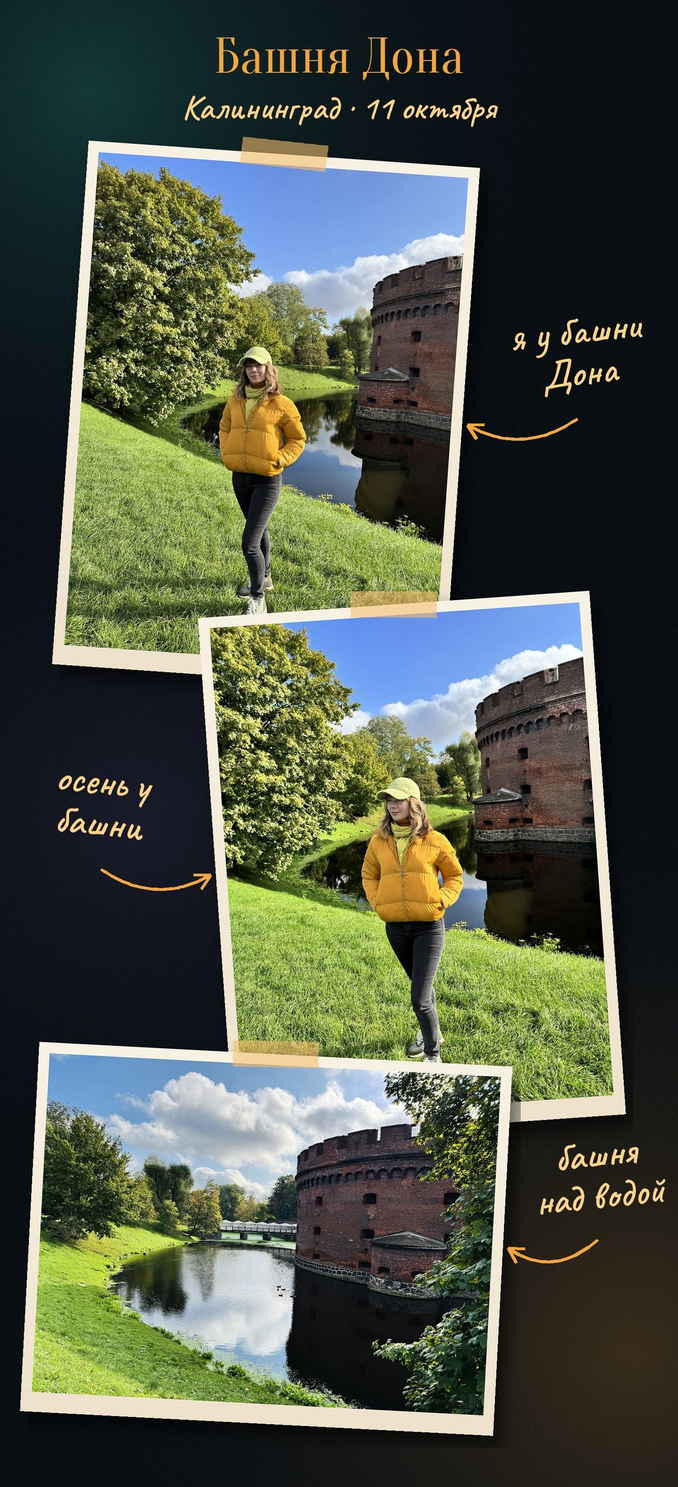
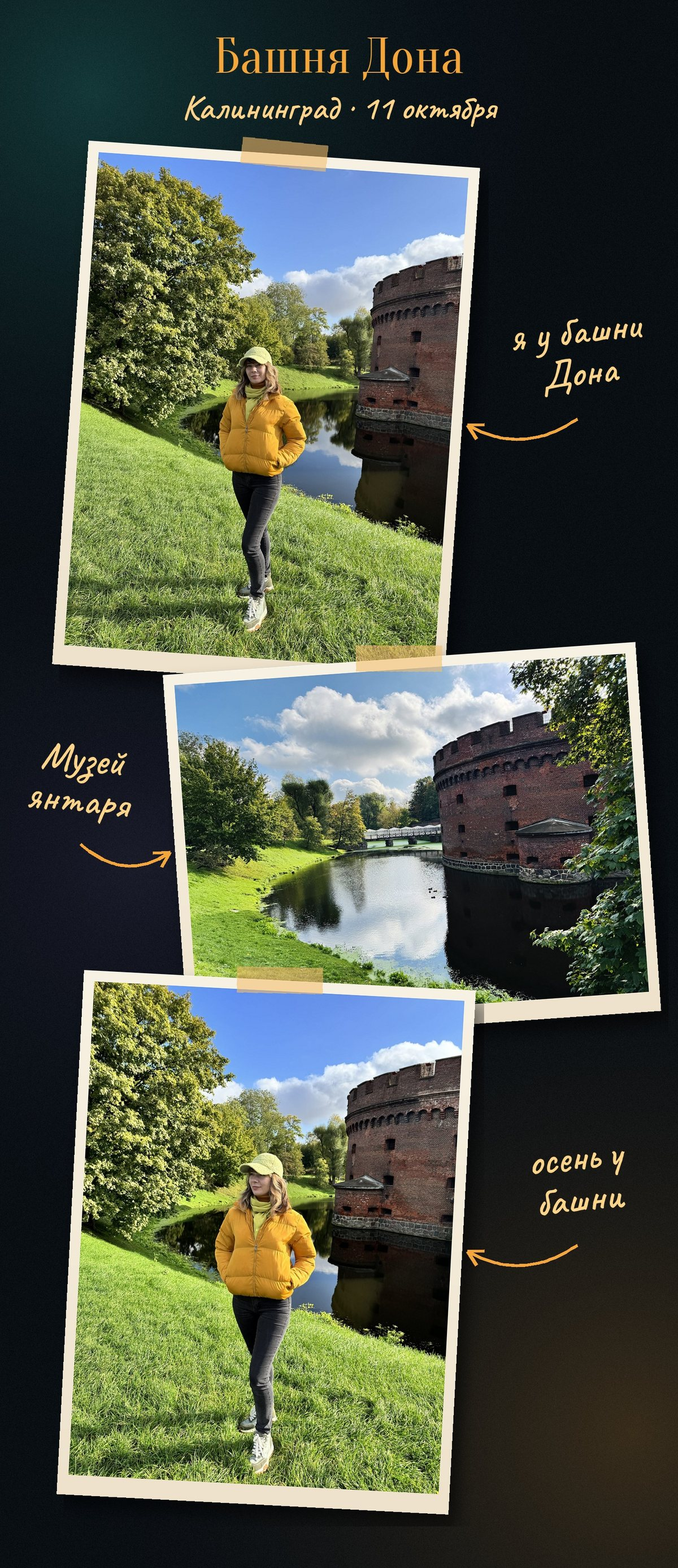
Альбом «Калининград»: страница «Башня Дона» — Музей янтаря в центре
По просьбе: сверху «я у башни Дона», в центре башня с подписью «Музей янтаря», снизу «осень у башни».
collage.py --column: перед широкой карточкой меньше нахлёст, чтобы она не закрывала низ фото выше.

Claude-Session: https://claude.ai/code/session_01BUmNQ2Kk9fTi5P6tnA3gYJ

diff --git a/kaliningrad/album/index.html b/kaliningrad/album/index.html
@@ -643,7 +643,7 @@ body.picking .wrap{padding-bottom:calc(var(--nav-h) + 230px + env(safe-area-inse
  {"id": "d1-09", "day": 1, "type": "video", "src": "photos/d1-09.mp4?v=2", "poster": "photos/d1-09.jpg", "thumb": "photos/t/d1-09.jpg", "w": 720, "h": 1280, "dur": 5.9, "place": "oz", "title": "Мамуля распахнула руки озеру", "date": "2026-10-11", "time": "10:25", "muted": true},
  {"id": "d1-70", "day": 1, "src": "photos/d1-70.jpg", "thumb": "photos/t/d1-70.jpg", "w": 1200, "h": 2906, "place": "oz", "title": "Мамуля у Верхнего озера", "date": "2026-10-11", "collage": true},
  {"id": "d1-71", "day": 1, "src": "photos/d1-71.jpg", "thumb": "photos/t/d1-71.jpg", "w": 1200, "h": 2679, "place": "oz", "title": "Верхнее озеро", "date": "2026-10-11", "collage": true},
- {"id": "d1-72", "day": 1, "src": "photos/d1-72.jpg", "thumb": "photos/t/d1-72.jpg", "w": 1200, "h": 2632, "place": "dona", "title": "Башня Дона", "date": "2026-10-11", "collage": true},
+ {"id": "d1-72", "day": 1, "src": "photos/d1-72.jpg?v=2", "thumb": "photos/t/d1-72.jpg?v=2", "w": 1200, "h": 2775, "place": "dona", "title": "Башня Дона", "date": "2026-10-11", "collage": true},
  {"id": "d1-73", "day": 1, "src": "photos/d1-73.jpg?v=2", "thumb": "photos/t/d1-73.jpg?v=2", "w": 1200, "h": 2110, "town": "kgd", "title": "Мамуля и осень", "date": "2026-10-11", "collage": true},
  {"id": "d1-74", "day": 1, "src": "photos/d1-74.jpg", "thumb": "photos/t/d1-74.jpg", "w": 1200, "h": 2906, "place": "amal", "title": "Виллы Амалиенау", "date": "2026-10-11", "collage": true},
  {"id": "d1-75", "day": 1, "src": "photos/d1-75.jpg", "thumb": "photos/t/d1-75.jpg", "w": 1200, "h": 2906, "place": "amal", "title": "Ограды и гербы", "date": "2026-10-11", "collage": true},

diff --git a/kaliningrad/album/tools/collage.py b/kaliningrad/album/tools/collage.py
@@ -189,9 +189,11 @@ elif column:
     sizes = [card_size(spec) for spec, _ in items]
     heights = [ph + B + BB + 40 for _, ph in sizes]
     tops, y = [], TOP
-    for h in heights:
+    for k, h in enumerate(heights):
         tops.append(y)
-        y += int(h * .83)
+        # широкая карточка следом заходит на середину страницы — ей меньше нахлёста, чтобы не закрыть низ фото выше
+        wide_next = k + 1 < len(sizes) and sizes[k + 1][0] >= 1000
+        y += int(h * (.93 if wide_next else .83))
     H = tops[-1] + heights[-1] + 140
     bg = background(W, H, [((55, 203, 184), 200, 200, 1100, .22), ((244, 166, 58), 1400, H - 300, 1300, .2), ((173, 144, 244), 300, H * .55, 900, .1)])
     d = ImageDraw.Draw(bg)
